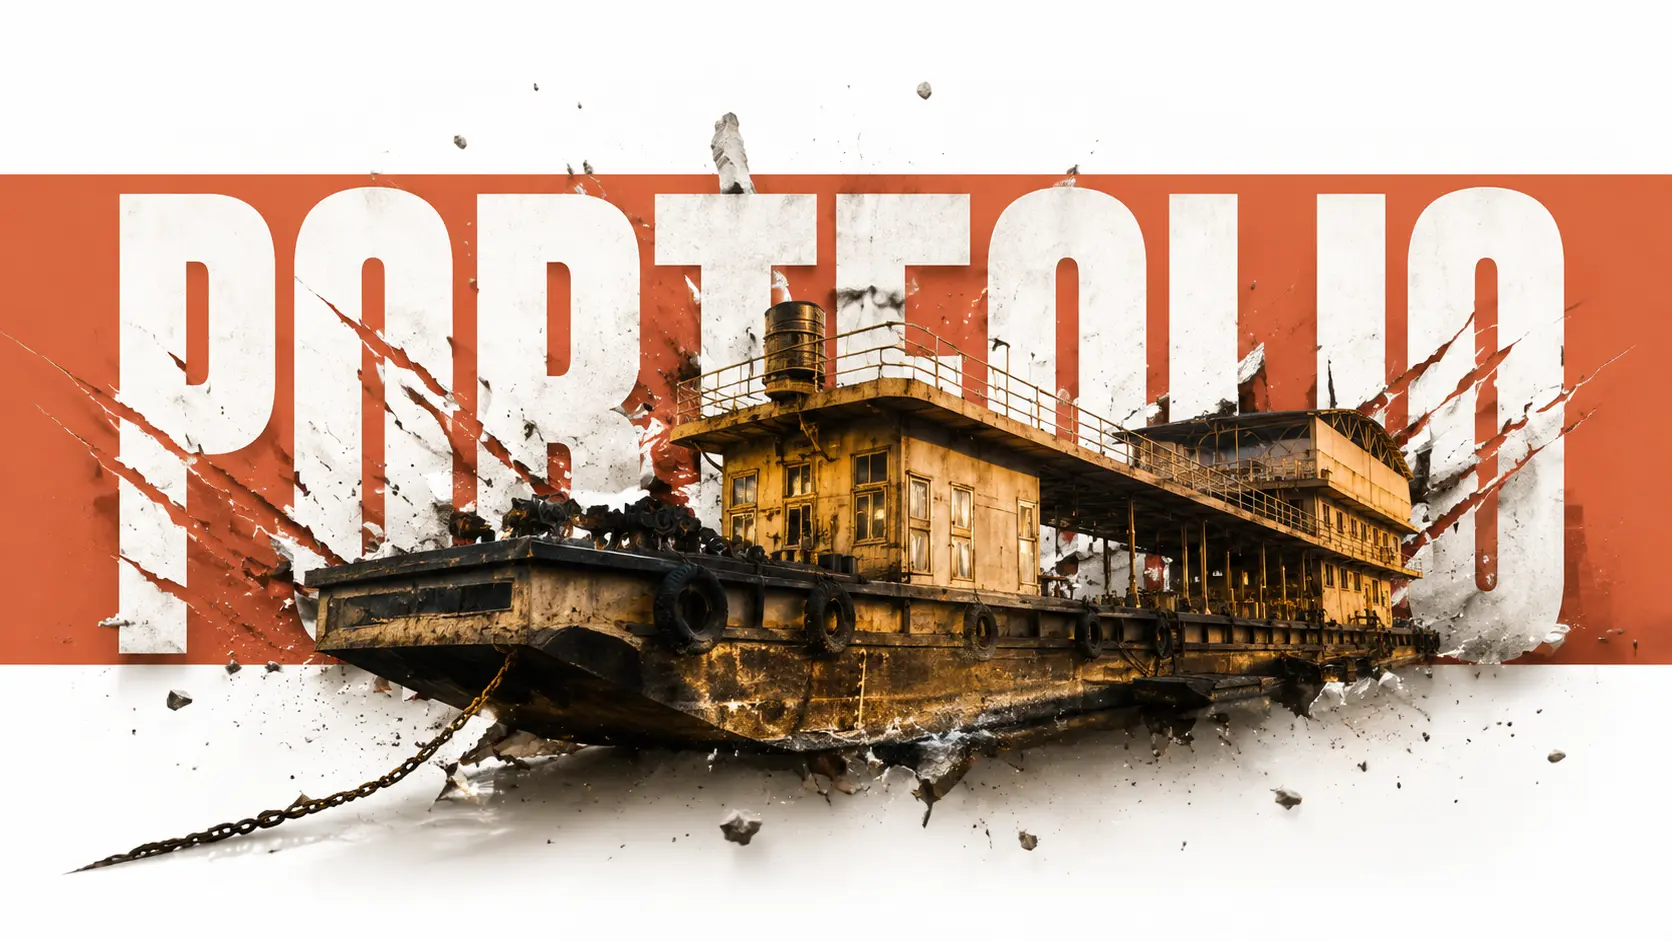
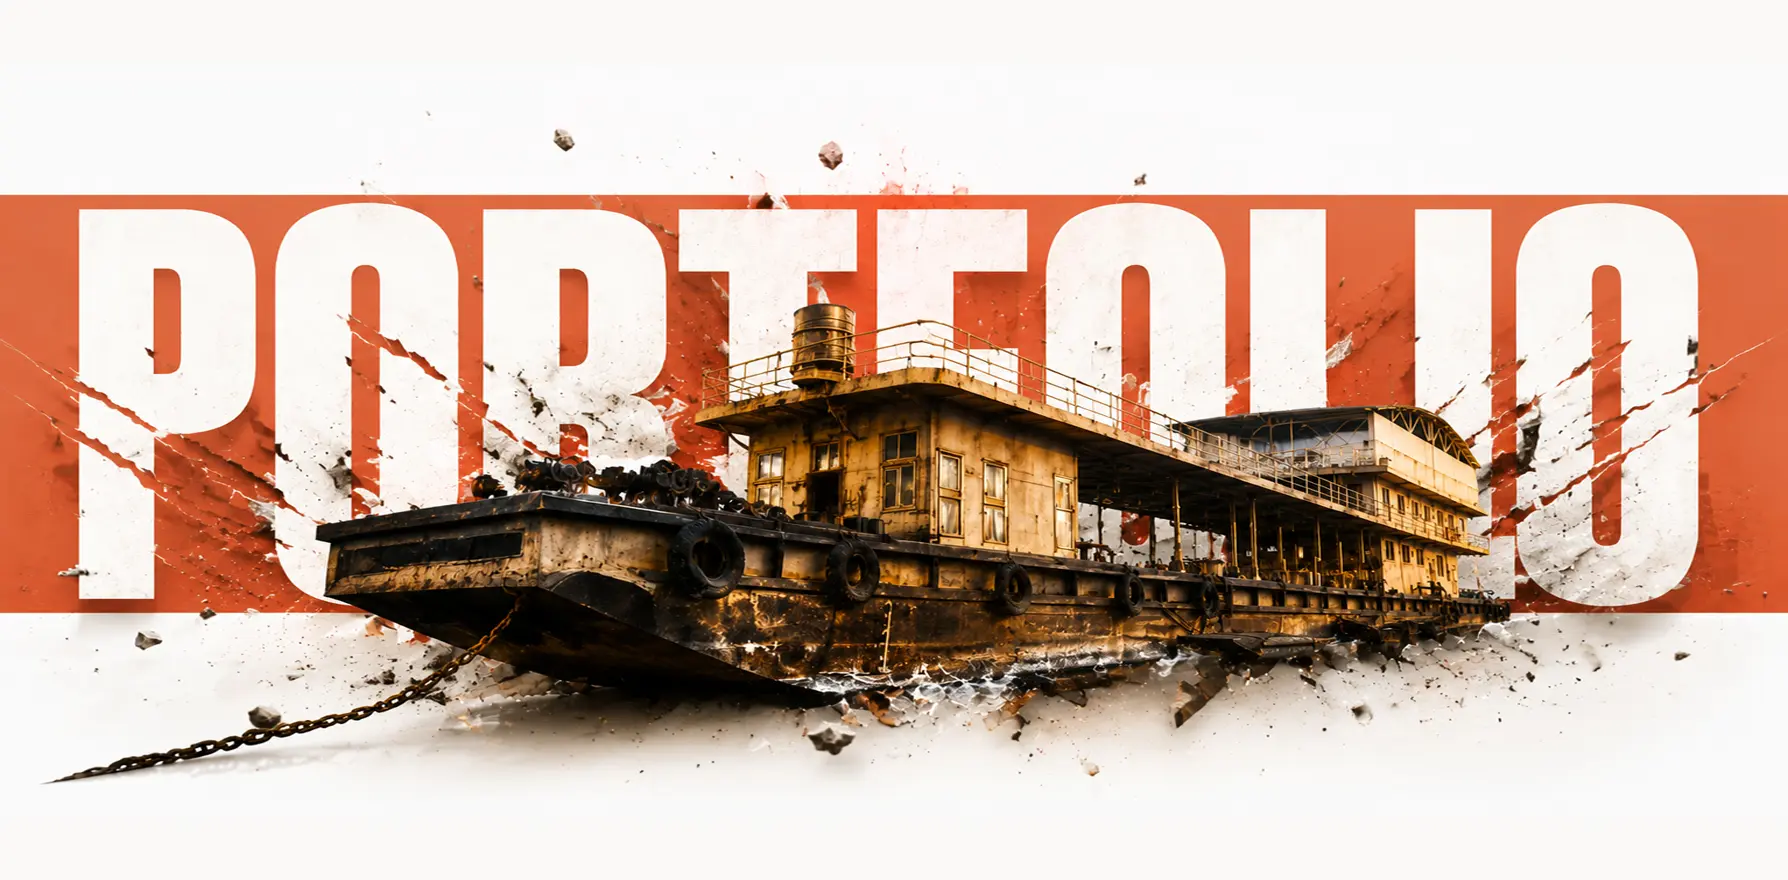
综合更新：背景图替换 + 蒙旭威个人作品集 + 缩略图更新 + 视频简介按钮 + 删除画册 + 手机端修复

diff --git a/js/main.js b/js/main.js
@@ -21,32 +21,20 @@ var photoFiles = [
 // --- Video list (link 留空待补充) ---
 // 有链接的排前面，无链接的排后面（点封面放大查看）
 const videoList = [
-  { cover: '《长沙草莓音乐节》.png',    title: '长沙草莓音乐节',          link: 'https://mp.weixin.qq.com/s/P6iRr9qp0noLcgQp2ihzXQ' },
-  { cover: '长沙大学招生宣传片-《择材环 竞未来》.png', title: '长沙大学招生宣传片-择材环 竞未来', link: 'https://weixin.qq.com/sph/ARmlZzTZEY' },
-  { cover: '湖南机电职院招生宣传片-《智汇未来信启程》.png', title: '招生宣传片-智汇未来信启程', link: 'https://www.douyin.com/user/MS4wLjABAAAAwe-gMw2irhvU8V3m0aOtQZSZA5RnTclj6RaeaOQs8Bk?from_tab_name=main&modal_id=7401832165249502516' },
-  { cover: '学生剧组-《榕树里》.png',    title: '学生剧组-榕树里',         link: 'https://weixin.qq.com/sph/AB5bRXKfph' },
-  { cover: '自制短视频-《宾得KX》.png',  title: '自制短视频-宾得KX',       link: 'https://www.bilibili.com/video/BV1UXVJzRErH/' },
-  { cover: '旅拍婚礼-MV.jpg',         title: '旅拍婚礼 MV（可线下看片）',     link: '' },
-  { cover: '广铁集团-长沙工务段视频.png', title: '广铁集团-长沙工务段视频（可线下看片）', link: '' },
-  { cover: '湖南省楚怡杯一等奖视频模板.png', title: '湖南省楚怡杯一等奖视频模板（可线下看片）', link: '' },
+  { cover: '《长沙草莓音乐节》.png',    title: '长沙草莓音乐节',          link: 'https://mp.weixin.qq.com/s/P6iRr9qp0noLcgQp2ihzXQ', desc: '' },
+  { cover: '长沙大学招生宣传片-《择材环 竞未来》.png', title: '长沙大学招生宣传片-择材环 竞未来', link: 'https://weixin.qq.com/sph/ARmlZzTZEY', desc: '' },
+  { cover: '湖南机电职院招生宣传片-《智汇未来信启程》.png', title: '招生宣传片-智汇未来信启程', link: 'https://www.douyin.com/user/MS4wLjABAAAAwe-gMw2irhvU8V3m0aOtQZSZA5RnTclj6RaeaOQs8Bk?from_tab_name=main&modal_id=7401832165249502516', desc: '' },
+  { cover: '学生剧组-《榕树里》.png',    title: '学生剧组-榕树里',         link: 'https://weixin.qq.com/sph/AB5bRXKfph', desc: '' },
+  { cover: '自制短视频-《宾得KX》.png',  title: '自制短视频-宾得KX',       link: 'https://www.bilibili.com/video/BV1UXVJzRErH/', desc: '' },
+  { cover: '旅拍婚礼-MV.jpg',         title: '旅拍婚礼 MV（可线下看片）',     link: '', desc: '' },
+  { cover: '广铁集团-长沙工务段视频.png', title: '广铁集团-长沙工务段视频（可线下看片）', link: '', desc: '' },
+  { cover: '湖南省楚怡杯一等奖视频模板.png', title: '湖南省楚怡杯一等奖视频模板（可线下看片）', link: '', desc: '' },
 ];
 
 // --- Poster design ---
 const posterFiles = [
   '画板 1.jpg', '画板 2.jpg', '画板 3.jpg',
   '室内打卡.jpg', '室外摄影展.jpg'
-];
-
-// --- Album design ---
-const albumFiles = [
-  '《寨味·寨景》_画板 1.jpg',
-  '《寨味·寨景》_画板 1 副本 2.jpg',
-  '《寨味·寨景》_画板 1 副本 3.jpg',
-  '《寨味·寨景》_画板 1 副本 7.jpg',
-  '《寨这里》_画板 1 副本 2.jpg',
-  '《寨这里》_画板 1 副本 3.jpg',
-  '《寨这里》_画板 1 副本 5.jpg',
-  '《寨这里》_画板 1 副本 7.jpg',
 ];
 
 // --- Certificates ---
@@ -155,18 +143,38 @@ function buildVideoGrid() {
     card.appendChild(wrap);
     card.appendChild(title);
 
-    // 有链接的视频加跳转标记
+    // 标签行
+    var tagsWrap = document.createElement('div');
+    tagsWrap.className = 'video-tags';
+
     if (v.link) {
-      const tag = document.createElement('span');
+      var tag = document.createElement('span');
       tag.className = 'video-link-tag';
       tag.textContent = '点击观看';
-      card.appendChild(tag);
+      tag.addEventListener('click', function(e) {
+        e.stopPropagation();
+        window.open(v.link, '_blank');
+      });
+      tagsWrap.appendChild(tag);
     }
 
-    card.addEventListener('click', () => {
-      if (v.link) {
-        window.open(v.link, '_blank');
+    var descBtn = document.createElement('span');
+    descBtn.className = 'video-desc-btn';
+    descBtn.textContent = '简介';
+    descBtn.addEventListener('click', function(e) {
+      e.stopPropagation();
+      if (v.desc) {
+        alert(v.desc);
       } else {
+        alert('暂无简介');
+      }
+    });
+    tagsWrap.appendChild(descBtn);
+    card.appendChild(tagsWrap);
+
+    card.addEventListener('click', function(e) {
+      if (e.target.classList.contains('video-desc-btn') || e.target.classList.contains('video-link-tag')) return;
+      if (!v.link) {
         openLightbox(card.dataset.fullSrc);
       }
     });
@@ -358,7 +366,6 @@ document.addEventListener('DOMContentLoaded', () => {
   buildPhotoGallery();
   buildVideoGrid();
   buildDesignGallery('gallery-poster', posterFiles, 'assets/design-poster/', 'assets/thumbs/design-poster/');
-  buildDesignGallery('gallery-album', albumFiles, 'assets/design-album/', 'assets/thumbs/design-album/');
   buildCertGallery();
   setupResume();
   setupScrollReveal();

diff --git a/css/style.css b/css/style.css
@@ -78,11 +78,6 @@ a { color: inherit; text-decoration: none; }
   background: url('../assets/hero-bg.webp') center/cover no-repeat;
   position: relative;
 }
-.hero::after {
-  content: ''; position: absolute; inset: 0;
-  background: rgba(0,0,0,0.55);
-  pointer-events: none; z-index: 0;
-}
 .hero-bg { display: none; }
 .hero-inner {
   max-width: var(--max-width); margin: 0 auto; padding: 0 var(--gap);
@@ -94,12 +89,21 @@ a { color: inherit; text-decoration: none; }
   margin-left: 80px;
   text-align: left;
   color: var(--text-light);
+  position: static;
 }
-.hero-content .hero-name { color: #fff; }
-.hero-content .hero-title { color: var(--accent); }
+.hero-content .hero-name {
+  color: var(--accent);
+  position: absolute; top: -148px; left: var(--gap); z-index: 101;
+  font-size: clamp(1rem, 2vw, 1.75rem);
+}
+.hero-content .hero-title {
+  color: var(--accent);
+  position: absolute; top: -113px; left: var(--gap);
+  font-size: 0.58rem; letter-spacing: 2px;
+}
 .hero-content .hero-desc { color: rgba(255,255,255,0.8); }
 .hero-actions {
-  position: absolute; bottom: -60px; right: 60px;
+  position: absolute; bottom: -210px; right: 40px;
   z-index: 2;
 }
 .hero::before {
@@ -302,11 +306,24 @@ a { color: inherit; text-decoration: none; }
 .video-title {
   font-size: 0.9rem; font-weight: 600; letter-spacing: 0.5px;
 }
+.video-tags {
+  display: flex; gap: 0.5rem; margin-top: 0.4rem; flex-wrap: wrap;
+}
 .video-link-tag {
-  display: inline-block; margin-top: 0.4rem; padding: 3px 10px;
+  display: inline-block; padding: 4px 12px;
   font-size: 0.7rem; color: #fff; background: var(--accent);
   border-radius: 3px; letter-spacing: 1px;
+  cursor: pointer; transition: opacity 0.2s;
 }
+.video-link-tag:hover { opacity: 0.85; }
+.video-desc-btn {
+  display: inline-block; padding: 4px 12px;
+  font-size: 0.7rem; color: var(--text); background: #fff;
+  border: 1px solid var(--border);
+  border-radius: 3px; letter-spacing: 1px;
+  cursor: pointer; transition: all 0.2s;
+}
+.video-desc-btn:hover { border-color: var(--accent); color: var(--accent); }
 
 /* --- Awards --- */
 .awards-grid {
@@ -433,10 +450,14 @@ a { color: inherit; text-decoration: none; }
     min-height: 100vh;
     min-height: 100dvh;
   }
-  .hero::after { background: rgba(0,0,0,0.6); }
-  .hero-content { padding: 100px 0 80px; text-align: left; max-width: 100%; }
-  .hero-name { font-size: 2.2rem; letter-spacing: 4px; }
-  .hero-title { font-size: 0.9rem; letter-spacing: 2px; }
+  .hero-content { padding: 100px 0 80px; text-align: left; max-width: 100%; position: static; }
+  .hero-content .hero-name {
+    position: static; font-size: 2rem; letter-spacing: 3px;
+    color: #fff; z-index: auto;
+  }
+  .hero-content .hero-title {
+    position: static; font-size: 0.85rem; letter-spacing: 2px;
+  }
   .hero-desc { font-size: 0.82rem; line-height: 1.8; }
   .hero-actions {
     position: static; bottom: auto; right: auto;

diff --git a/index.html b/index.html
@@ -27,11 +27,8 @@
   <section id="hero" class="hero">
     <div class="hero-inner">
     <div class="hero-content">
-      <h1 class="hero-name">蒙旭威</h1>
+      <h1 class="hero-name">蒙旭威个人作品集</h1>
       <p class="hero-title">视频拍摄 / 后期剪辑</p>
-      <p class="hero-desc">
-        毕业于中南林业科技大学涉外学院，长期关注B站视频创作与影视后期内容，具备较强网感与创意思维。熟练使用PR、AE、达芬奇、剪映等软件，可独立完成剪辑、包装与调色，并具备基础拍摄协作能力。适应高强度工作节奏，执行力与责任感较强，可长期稳定工作。
-      </p>
       <div class="hero-actions">
         <a href="#photo" class="btn-primary">查看作品</a>
         <a href="#contact" class="btn-outline">联系我</a>
@@ -73,11 +70,6 @@
       <div class="gallery gallery-small" id="gallery-poster"></div>
     </div>
 
-    <!-- Album Design -->
-    <div class="work-category">
-      <h3 class="category-title">画册设计</h3>
-      <div class="gallery gallery-small" id="gallery-album"></div>
-    </div>
   </section>
 
   <!-- Awards -->
